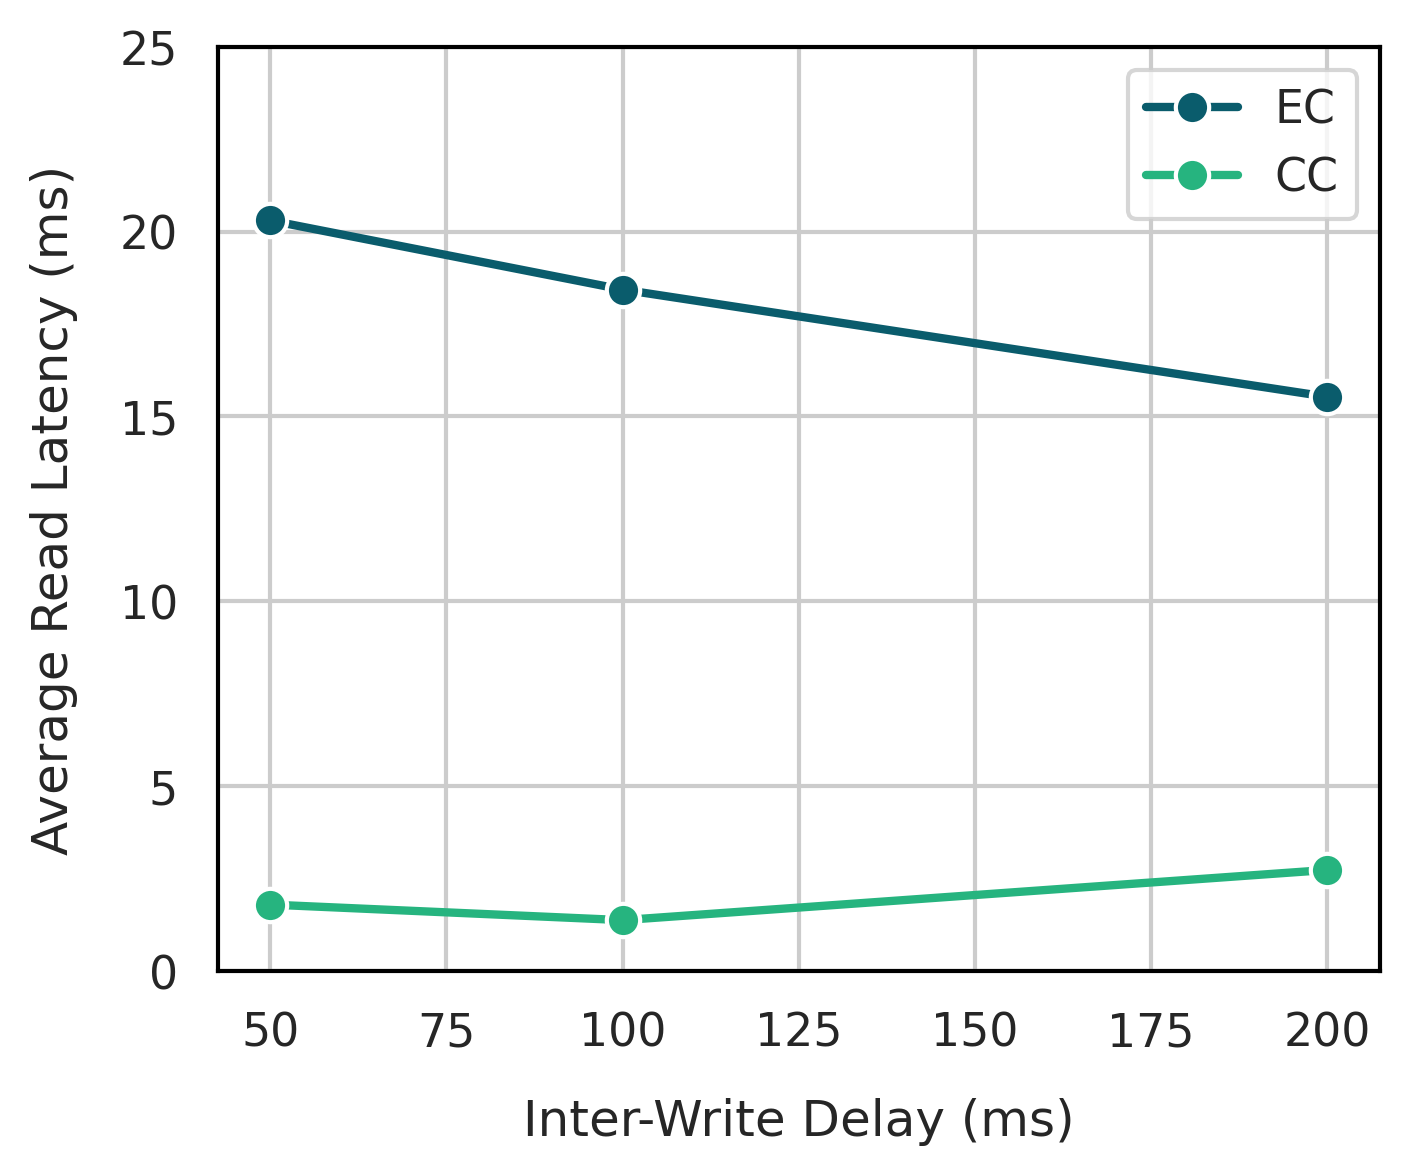
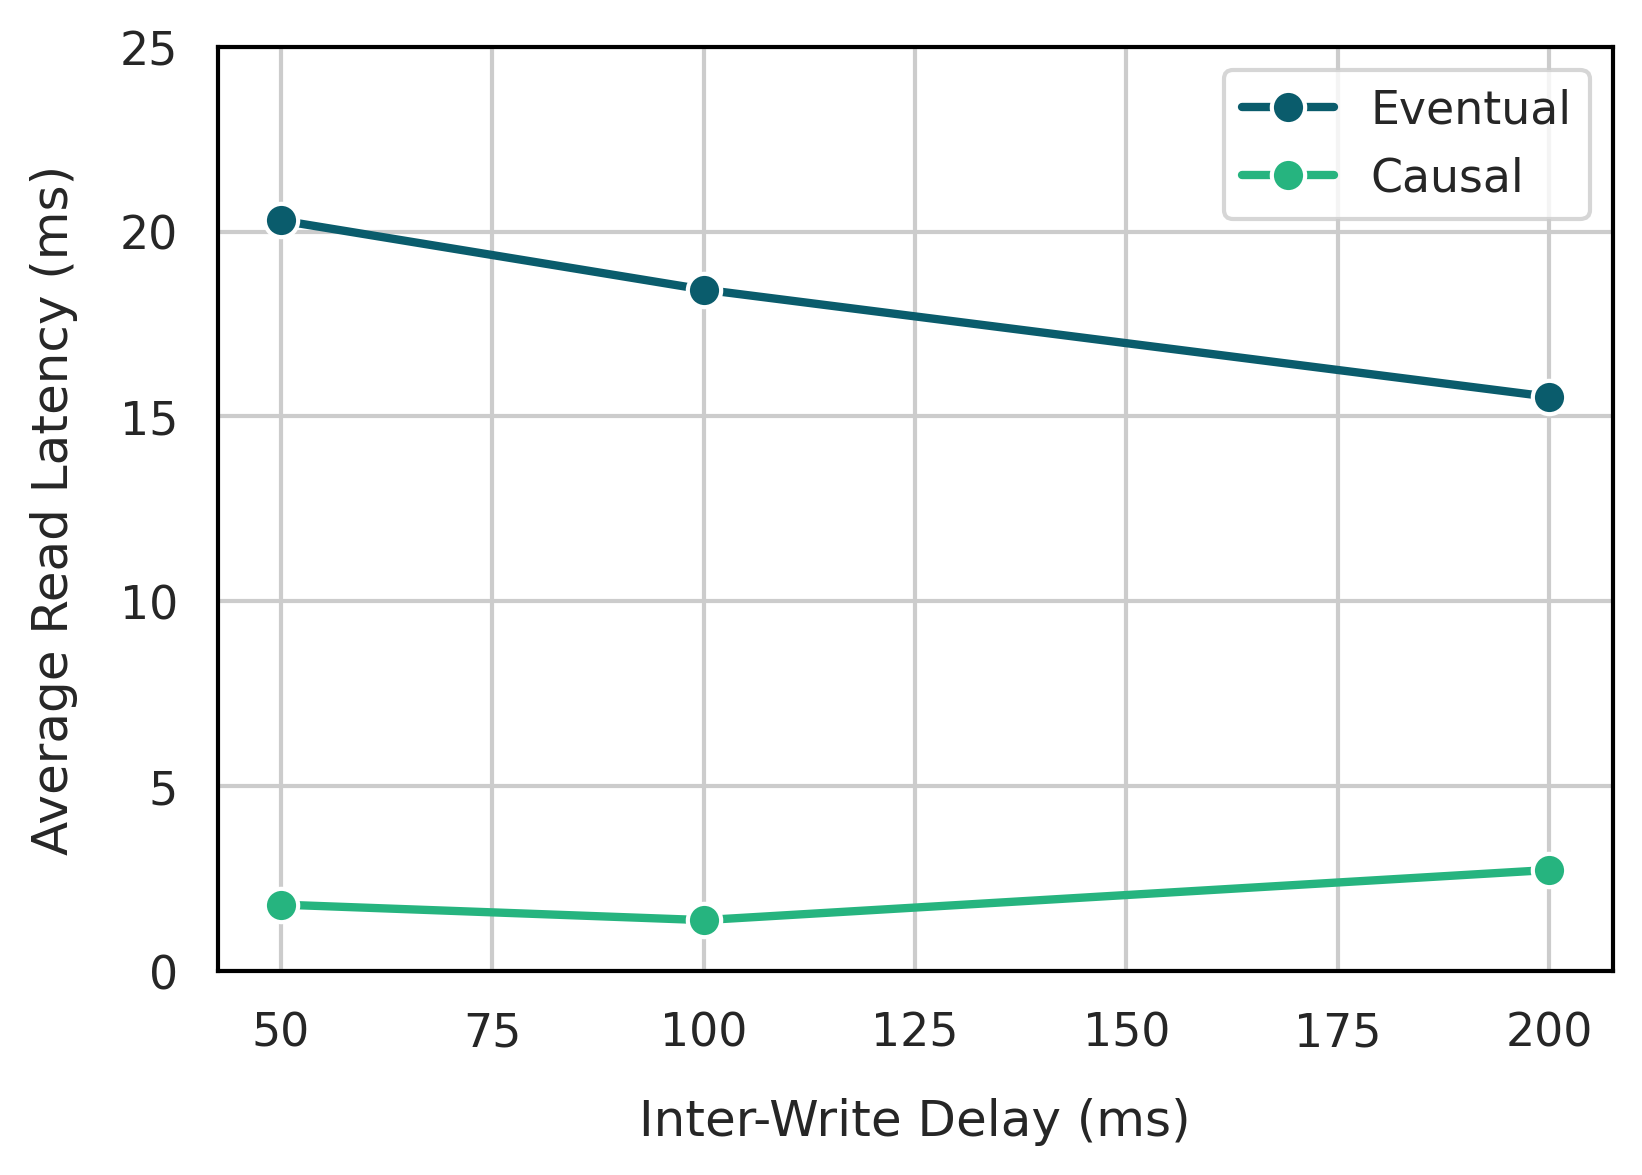
Update plots for thesis document

diff --git a/evaluation/data_analysis/single_client/read_latency.py b/evaluation/data_analysis/single_client/read_latency.py
@@ -29,7 +29,7 @@ def latency_evaluation():
         latency_distribution_table(df_ec_latency, df_cc_latency, delay)
 
     df = pd.concat(dfs).reset_index(drop=True)
-    latency_boxplot(df, outliers=False, interval=5, fig_size=(8, 10))
+    latency_boxplot(df, outliers=False, interval=5, fig_size=(7, 5))
     latency_boxplot(df, outliers=True, interval=10, fig_size=(8, 10))
 
     latency_average_barplot(df)
@@ -71,16 +71,19 @@ def latency_distribution_table(df_ec_latency, df_cc_latency, delay):
     plt.close()
 
 
-def latency_boxplot(df, outliers=False, interval=5, fig_size=(10, 10)):
+def latency_boxplot(df, outliers=False, interval=5, fig_size=(7, 4)):
     plt.figure(figsize=fig_size)
-    sns.boxplot(data=df, x="delay", y="latency",
-                hue="consistency", hue_order=['EC','CC'], showfliers=outliers, order=DELAYS)
+    df_result = df.copy()
+    df_result['consistency'] = df['consistency'].replace({'EC': 'Eventual', 'CC': 'Causal'})
+    sns.boxplot(data=df_result, x="delay", y="latency",
+                hue="consistency", hue_order=['Eventual','Causal'], showfliers=outliers, order=DELAYS, dodge=2, width=0.6, linewidth=1)
     plt.gca().xaxis.grid(True)
     plt.gca().yaxis.set_major_locator(ticker.MultipleLocator(base=interval))
     plt.xlabel("Inter-Write Delay (ms)", labelpad=10)
     plt.ylabel("Read Latency (ms)", labelpad=10)
     handles, labels = plt.gca().get_legend_handles_labels()
     plt.legend(handles, [label.capitalize() for label in labels], loc="upper right")
+    plt.subplots_adjust(bottom=0.2)
     plt.savefig(RESULTS_PATH + '/latency_boxplot' + ('_outliers' if outliers else '') + '.png', dpi=300)
     plt.clf()
     plt.close()
@@ -121,7 +124,7 @@ def latency_with_write_delay(df):
         y_coords_cc_99.append(df_cc_99[df_cc_99['delay'] == delay]['percentile_99'].values[0])
 
     # Average Read Latency
-    _, ax = plt.subplots(figsize=(5, 4))
+    _, ax = plt.subplots(figsize=(6, 4))
 
     plt.plot(DELAYS, y_coords_ec_mean, marker=MARKERS[1], markersize=8, linewidth=2, linestyle='-', color=PALETTE_SHORT[0], markeredgewidth=1, markeredgecolor='w')
     plt.plot(DELAYS, y_coords_cc_mean, marker=MARKERS[1], markersize=8, linewidth=2, linestyle='-', color=PALETTE_SHORT[1], markeredgewidth=1, markeredgecolor='w')
@@ -132,7 +135,7 @@ def latency_with_write_delay(df):
     ax.xaxis.set_major_formatter(plt.FormatStrFormatter('%.0f'))
     plt.yticks(range(0, math.ceil(max(y_coords_cc_mean + y_coords_ec_mean)) + 5, 5))
     ax.xaxis.set_major_locator(ticker.MultipleLocator(base=25))
-    plt.legend(['EC', 'CC'], loc="upper right")
+    plt.legend(['Eventual', 'Causal'], loc="upper right")
     plt.savefig(RESULTS_PATH + '/latency_with_write_delay.png', dpi=300, bbox_inches='tight')
     plt.clf()
     plt.close()
@@ -147,8 +150,9 @@ def latency_with_write_delay(df):
     ax.set_xlabel("Inter-Write Delay (ms)", labelpad=10)
     ax.set_ylabel("99th Percentile Read Latency (ms)", labelpad=10)
     ax.xaxis.set_major_formatter(plt.FormatStrFormatter('%.0f'))
+    ax.xaxis.set_major_locator(ticker.MultipleLocator(base=25))
     plt.yticks(range(0, math.ceil(max(y_coords_cc_99 + y_coords_ec_99)) + 10, 10))
-    plt.legend(['EC', 'CC'], loc="upper right")
+    plt.legend(['Eventual', 'Causal'], loc="upper right")
     plt.savefig(RESULTS_PATH + '/latency_99_with_write_delay.png', dpi=300, bbox_inches='tight')
     plt.clf()
     plt.close()

diff --git a/evaluation/data_analysis/single_client/visibility.py b/evaluation/data_analysis/single_client/visibility.py
@@ -254,17 +254,19 @@ def visibility_distribution_table(df_ec_stats, df_cc_stats, title, filename, del
 
 
 def visibility_barplot(df):
-    grouped_data = df.groupby(["delay", "consistency", "region"])[
+    df_result = df.copy()
+    df_result['consistency'] = df_result['consistency'].replace({'EC': 'Eventual', 'CC': 'Causal'})
+    grouped_data = df_result.groupby(["delay", "consistency", "region"])[
         "read_time"]
     average_visibility = grouped_data.mean().reset_index()
 
     g = sns.FacetGrid(average_visibility, col="region",
                       height=5, aspect=1, margin_titles=True)
     g.map(sns.barplot, "delay", "read_time", "consistency",
-          order=DELAYS, hue_order=['EC', 'CC'], palette=PALETTE_SHORT, width=0.6, linewidth=1, edgecolor='black', alpha=0.9)
+          order=DELAYS, hue_order=['Eventual', 'Causal'], palette=PALETTE_SHORT, width=0.6, linewidth=1, edgecolor='black', alpha=0.9)
     g.set(yscale='log', ylim=(1, get_log_y_lim(average_visibility['read_time'])))    
     g.add_legend()  
-    g.set_axis_labels("Inter-Write Delay (ms)", "Visibility (ms)")
+    g.set_axis_labels("Inter-Write Delay (ms)", "Average Staleness (ms)")
     g.axes[0][0].set_title("Local Region (EU)", pad=5)
     g.axes[0][1].set_title("Remote Region (US)", pad=5)
 
@@ -274,19 +276,27 @@ def visibility_barplot(df):
 
 
 def write_response_barplot(df):
-    grouped_data = df.groupby(["delay", "consistency", "region"])[
+    df_result = df.copy()
+    df_result = df_result[df_result["region"] == LOCAL_REGION]
+    df_result['consistency'] = df_result['consistency'].replace({'EC': 'Eventual', 'CC': 'Causal'})
+    _, ax = plt.subplots(figsize=(7, 6))
+    grouped_data = df_result.groupby(["delay", "consistency"])[
         "response_time"]
     average_visibility = grouped_data.mean().reset_index()
 
-    g = sns.FacetGrid(average_visibility, col="region",
-                      height=5, aspect=1, margin_titles=True)
-    g.map(sns.barplot, "delay", "response_time", "consistency",
-          order=DELAYS, hue_order=['EC', 'CC'], palette=PALETTE_SHORT, width=0.6, linewidth=1, edgecolor='black', alpha=0.9)
-    g.set(yscale='log', ylim=(1, get_log_y_lim(average_visibility['response_time'])))    
-    g.add_legend()  
-    g.set_axis_labels("Inter-Write Delay (ms)", "Write Latency (ms)")
-    g.axes[0][0].set_title("Local Region (EU)", pad=5)
-    g.axes[0][1].set_title("Remote Region (US)", pad=5)
+    sns.barplot(data=average_visibility, x="delay", y='response_time',
+                hue="consistency", hue_order = ['Eventual','Causal'], width=0.6, linewidth=1, edgecolor='black', order=DELAYS, alpha=0.9)
+    ax.xaxis.grid(True)
+    ax.set_xlabel("Inter-Write Delay (ms)", labelpad=10)
+    ax.set_ylabel('Write Latency (ms)', labelpad=10)
+    plt.yscale('log')
+
+    y_max = get_log_y_lim(average_visibility['response_time'])
+    ax.set_ylim(1, y_max)
+
+    handles, labels = ax.get_legend_handles_labels()
+    ax.legend(handles, [label.capitalize()
+              for label in labels], loc="upper right")
 
     plt.savefig(RESULT_PATH + '/write_response_barplot.png', dpi=300)
     plt.clf()

diff --git a/evaluation/data_analysis/multi_client/read_latency.py b/evaluation/data_analysis/multi_client/read_latency.py
@@ -56,9 +56,8 @@ def reads_with_clients_barplot(subdir):
     read_percentage = list(df_avg['read_percentage'])
     
     # Read Latency with Read Percentage
-    _, ax = plt.subplots(figsize=(5, 5))
-    sns.barplot(x='rw', y='latency', data=df_result, ax=ax, width=0.6, linewidth=1, edgecolor='black', alpha=0.9, palette=PALETTE_FULL)
-    ax.xaxis.grid(True)
+    _, ax = plt.subplots(figsize=(8, 5))
+    sns.barplot(x='rw', y='latency', data=df_result, ax=ax, width=0.6, linewidth=1, edgecolor='black', alpha=0.9, palette=PALETTE_FULL, errorbar=None, zorder=1)
     ax.set_xlabel("Readers : Writers", labelpad=5)
     ax.set_ylabel('Average Latency (ms)', labelpad=5)
 
@@ -67,6 +66,8 @@ def reads_with_clients_barplot(subdir):
     ax2.set_xticks(np.arange(len(read_percentage)))
     ax2.set_xlabel("Read %", labelpad=5)
     ax2.set_xticklabels(read_percentage)
+    ax.grid(True, which='both', axis='y', zorder=0)
+    ax2.grid(False)
 
     plt.savefig(RESULTS_PATH + '/' + 'latency_with_clients_barplot.png', dpi=300)
     plt.clf()
@@ -117,23 +118,25 @@ def latency_distribution(test_names, dfs, read_throughput, filename):
     plt.close()
 
     # Scatterplot
-    _, ax = plt.subplots(figsize=(6, 5))
+    _, ax = plt.subplots(figsize=(6, 3))
     
+    y_coords = []
     x_coords = []
-    y_mean_coords = []
     for(_, row) in df_result.iterrows():
-        x_coords.append(row['read_throughput'])
-        y_mean_coords.append(row['mean'])
+        y_coords.append(row['read_throughput'])
+        x_coords.append(row['mean'])
 
     # Average Read Latency
-    plt.plot(x_coords, y_mean_coords, marker=MARKERS[1], markersize=8, linewidth=2, linestyle='-', color=PALETTE_FULL[0], markeredgewidth=1, markeredgecolor='w')
+    plt.plot(x_coords, y_coords, marker=MARKERS[1], markersize=8, linewidth=2, linestyle='-', color=PALETTE_FULL[0], markeredgewidth=1, markeredgecolor='w')
 
     ax.xaxis.grid(True)
-    ax.set_xlabel(" (1000 x ROT/s)", labelpad=10)
-    ax.set_ylabel("Average Read Latency (ms)", labelpad=10)
-    ax.xaxis.set_major_formatter(ticker.FuncFormatter(lambda x, pos: '{:.0f}'.format(x/1000)))
-    plt.xticks(range(0, math.ceil(max(x_coords)) + 2000, 2000))
-    plt.yticks(range(0, math.ceil(max(y_mean_coords)) + 2, 1))
+    ax.set_ylabel(" (1000 x ROT/s)", labelpad=10)
+    ax.set_xlabel("Average Read Latency (ms)", labelpad=10)
+
+    ax.yaxis.set_major_formatter(ticker.FuncFormatter(lambda x, pos: '{:.0f}'.format(x/1000)))
+    plt.yticks(range(0, math.ceil(max(y_coords)) + 2000, 2000))
+
+    plt.xticks(np.arange(1, math.ceil(max(x_coords)) + 0.5, 0.5), labels=[int(x) if x.is_integer() else '' for x in np.arange(1, math.ceil(max(x_coords)) + 0.5, 0.5)])
 
     plt.savefig(RESULTS_PATH + '/clients_latency_plot_avg_' + filename + '.png', dpi=300, bbox_inches='tight')
     plt.clf()

diff --git a/evaluation/data_analysis/single_client/goodput.py b/evaluation/data_analysis/single_client/goodput.py
@@ -73,15 +73,17 @@ def goodput_distribution_table(df_ec_goodput, df_cc_goodput, delay):
 
 
 def goodput_average_barplot(df):
-    _, ax = plt.subplots(figsize=(7, 5))
-    grouped_data = df.groupby(["delay", "consistency"])['writes_per_second']
+    df_result = df.copy()
+    df_result['consistency'] = df['consistency'].replace({'EC': 'Eventual', 'CC': 'Causal'})
+    _, ax = plt.subplots(figsize=(7, 6))
+    grouped_data = df_result.groupby(["delay", "consistency"])['writes_per_second']
     average_goodput = grouped_data.mean().round(2).reset_index()
 
     sns.barplot(data=average_goodput, x="delay", y='writes_per_second',
-                hue="consistency", hue_order = ['EC','CC'], width=0.6, linewidth=1, edgecolor='black', order=DELAYS, alpha=0.9)
+                hue="consistency", hue_order = ['Eventual','Causal'], width=0.6, linewidth=1, edgecolor='black', order=DELAYS, alpha=0.9)
     ax.xaxis.grid(True)
     ax.set_xlabel("Inter-Read Delay (ms)", labelpad=10)
-    ax.set_ylabel('Average Write Goodput (writes/s)', labelpad=10)
+    ax.set_ylabel('Average Goodput (writes/s)', labelpad=10)
     plt.yscale('log')
 
     max_value = average_goodput['writes_per_second'].max()
@@ -91,7 +93,7 @@ def goodput_average_barplot(df):
     handles, labels = ax.get_legend_handles_labels()
     ax.legend(handles, [label.capitalize()
               for label in labels], loc="upper right")
-    plt.savefig(RESULTS_PATH + '/' + 'writes_per_second' + '_barplot.png', dpi=300)
+    plt.savefig(RESULTS_PATH + '/writes_per_second_barplot.png', dpi=300)
     plt.clf()
     plt.close()
 
@@ -112,7 +114,7 @@ def goodput_with_read_delay(df):
 
     ax.xaxis.grid(True)
     ax.set_xlabel("Inter-Read Delay (ms)", labelpad=10)
-    ax.set_ylabel("Average Write Goodput (writes/s)", labelpad=10)
+    ax.set_ylabel("Average Goodput (writes/s)", labelpad=10)
     ax.xaxis.set_major_formatter(plt.FormatStrFormatter('%.0f'))
     plt.yscale('log')
 

diff --git a/evaluation/data_analysis/multi_client/visibility.py b/evaluation/data_analysis/multi_client/visibility.py
@@ -48,11 +48,11 @@ def visibility_with_clients(subdir):
 
     df_result = pd.concat(dfs, ignore_index=True).sort_values(by=['read_clients', 'write_clients']).reset_index(drop=True)
 
-    g = sns.FacetGrid(df_result, col="region", height=5, aspect=1.2, margin_titles=True)
-    g.map(sns.barplot, "rw", "mean", width=0.6, linewidth=1, edgecolor='black', alpha=0.9)
+    g = sns.FacetGrid(df_result, col="region", height=4, aspect=2, margin_titles=True)
+    g.map(sns.barplot, "rw", "mean", width=0.6, linewidth=1, edgecolor='black', alpha=0.9, errorbar=None)
     g.add_legend()  
     g.set(yscale="log", yticks=[math.pow(10, i) for i in range(3, 6)])
-    g.set_axis_labels("Readers : Writers (ms)", "Visibility (ms)")
+    g.set_axis_labels("Readers : Writers (ms)", "Average Staleness (ms)")
     g.axes[0][0].set_title("Local Region (EU)", pad=5)
     g.axes[0][1].set_title("Remote Region (US)", pad=5)
 

diff --git a/evaluation/data_analysis/multi_client/read_throughput.py b/evaluation/data_analysis/multi_client/read_throughput.py
@@ -11,7 +11,7 @@ READ_TIME = 30
 
 def read_throughout_evaluation():
     node_dirs = sorted([name for name in os.listdir(RAW_PATH) if os.path.isdir(os.path.join(RAW_PATH, name))])
-    _, ax = plt.subplots(figsize=(7, 5))
+    _, ax = plt.subplots(figsize=(10, 5))
 
     for i, node_dir in enumerate(node_dirs):
         node_dir = os.path.join(RAW_PATH, node_dir)
@@ -23,7 +23,7 @@ def read_throughout_evaluation():
     
     ax.xaxis.grid(True)
     ax.set_ylabel("Read Throughput (1000 x ROT/s)", labelpad=10)
-    ax.set_xlabel("Read Threads", labelpad=10)
+    ax.set_xlabel("Client Reading Threads", labelpad=10)
     ax.yaxis.set_major_formatter(ticker.FuncFormatter(lambda y, pos: '{:.0f}'.format(y/1000)))
     ax.legend(['1', '2', '3', '4'], loc='upper left', title = 'Read Nodes')
     plt.savefig(RESULTS_PATH + '/read_throughput_nodes.png', dpi=300, bbox_inches='tight')

diff --git a/README.md b/README.md
@@ -134,7 +134,8 @@ Using the command-line interface, you can test the behavior of the baseline loca
     - Write: `W x 3` (writes the value 3 to key x)
 
 ### AWS
-For the evaluation in AWS, we built a Docker image for the prototype and for the baseline, namely `dianaamfreitas/dissertation` and `dianaamfreitas/dissertation-eventual`. The image supports linux/amd64 and linux/arm64 and our test were performed using Ubuntu 22.04 LTS arm64.
+For the evaluation in AWS, we built a Docker image for the prototype and for the baseline, namely `dianaamfreitas/dissertation` and `dianaamfreitas/dissertation-eventual`. The images supports linux/amd64 and linux/arm64 and our tests were performed using Ubuntu 22.04 LTS arm64.
+<!-- TODO: explain the image tags available and their difference -->
 
 #### Causally Consistent Prototype
 1. Create an EC2 instance for each system component (read and write nodes and cli or load generators) setting the user data to the contents of `docker-install.sh`, which installs docker on the instance. Make sure to set the security group's inbound rules so that port 8080 accepts TCP requests from the client instances.
@@ -168,12 +169,16 @@ For the evaluation in AWS, we built a Docker image for the prototype and for the
         `./multiConstantReadGenerator.sh <imageTag> <totalPartitions> <regionPartitions> <readPort> <readIP> (<writePort> <writeIP> <partitionId>)+ <readDelay> <readTime> <keysPerRead> <keyPerPartition> <readClients>`
 > To replicate the experiments that generated our results, please refer to the `README` of the `evaluation` directory available [here](https://github.com/dianaamfr/Dissertation-Work/tree/evaluation/README.md).
 
+### Eventually Consistent Baseline
+<!-- TODO -->
+
 ## Candidate Reference Architecture
+<!-- TODO: update according to the thesis document and update image too -->
 
 ![Candidate Reference Architecture](images/reference-architecture.png)
 
 **Clock**: 
-Logical clock or Hybrid Logical Clock
+Hybrid Logical Clock
 
 **Assumptions**: 
 - The Eventually consistent Data Store (ECDS) allows writing to a specific region/partition.
